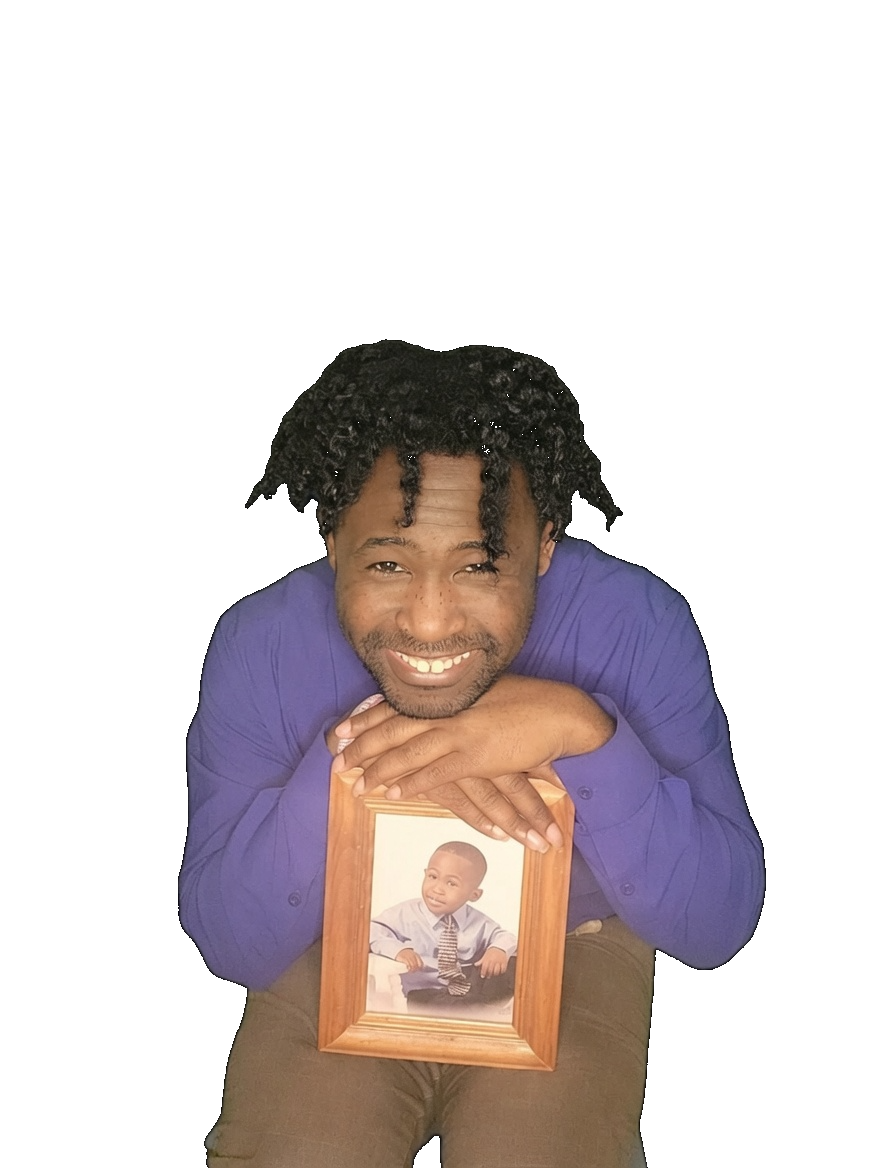
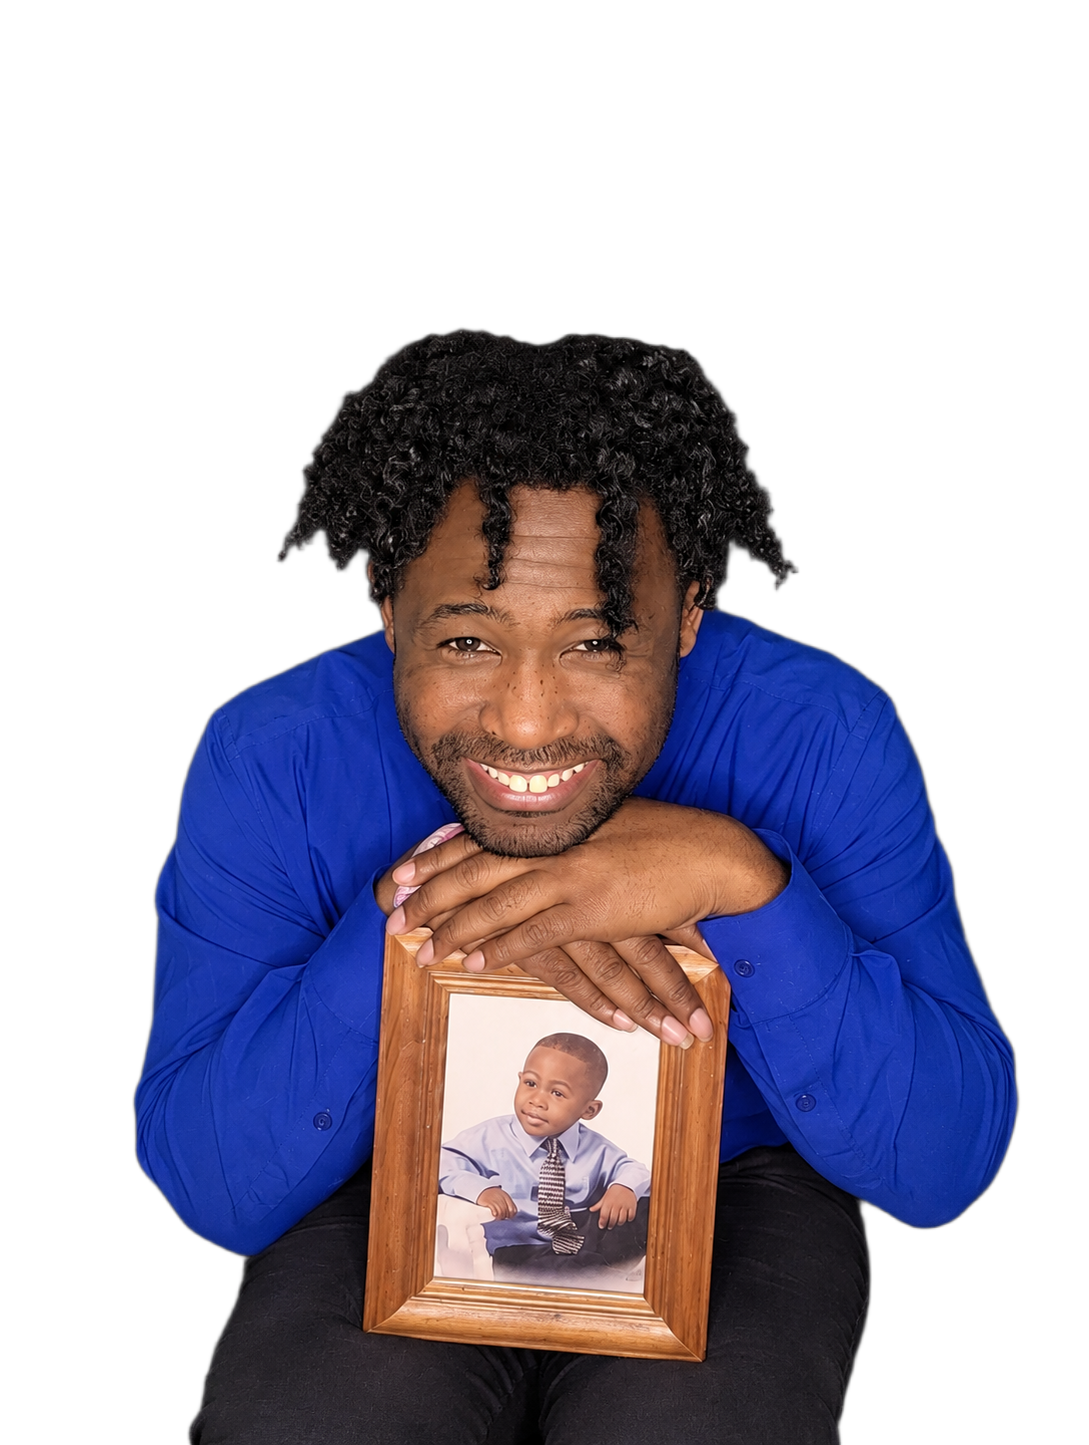
Started first webp changes

diff --git a/ShakurWebsites/public/index.html b/ShakurWebsites/public/index.html
@@ -56,7 +56,14 @@
                 </div>
                 <div class="hero-frame">
                     <div class="inner-Hframe">
-                        <img src="./assets/misterShak.png" alt="Portrait of Shakuryon">
+                        <img
+                        srcset="./assets/misterShak-400w.webp 400w, ./assets/misterShak-600w.webp 600w, ./assets/misterShak-800w.webp 800w, ./assets/misterShak-1000w.webp 1000w"
+                        sizes="(max-width: 400px) 400px, (max-width: 600px) 600px, (max-width: 800px) 800px, (min-width: 801px) 1000px"
+                        src="./assets/misterShak.png"
+                        alt="Image of Shakuryon Steward smiling, sitting down. "
+                        width="1089"
+                        height="1445"
+                        />
                     </div>
                 </div>
                 <div class="Ltagline">
